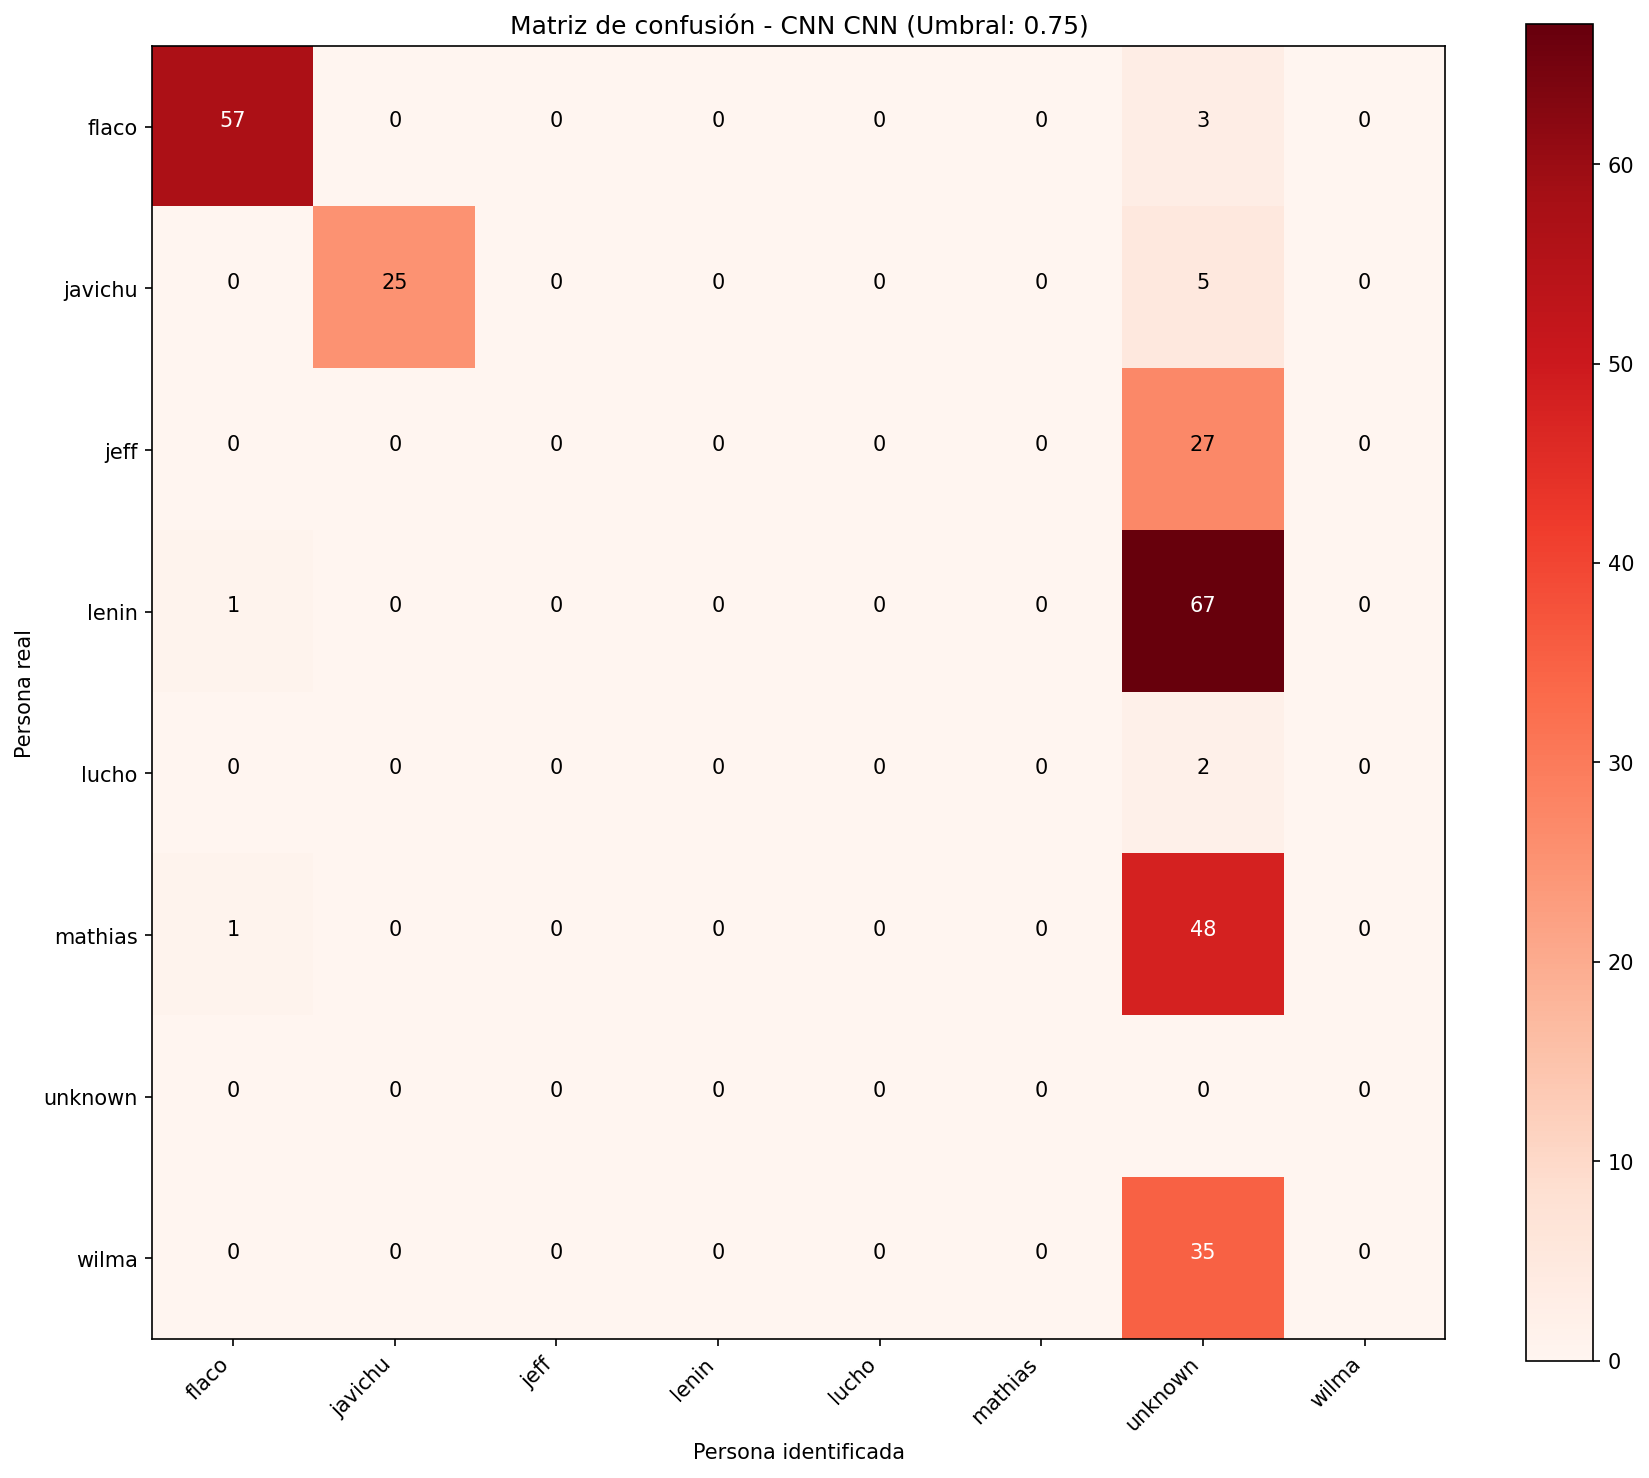
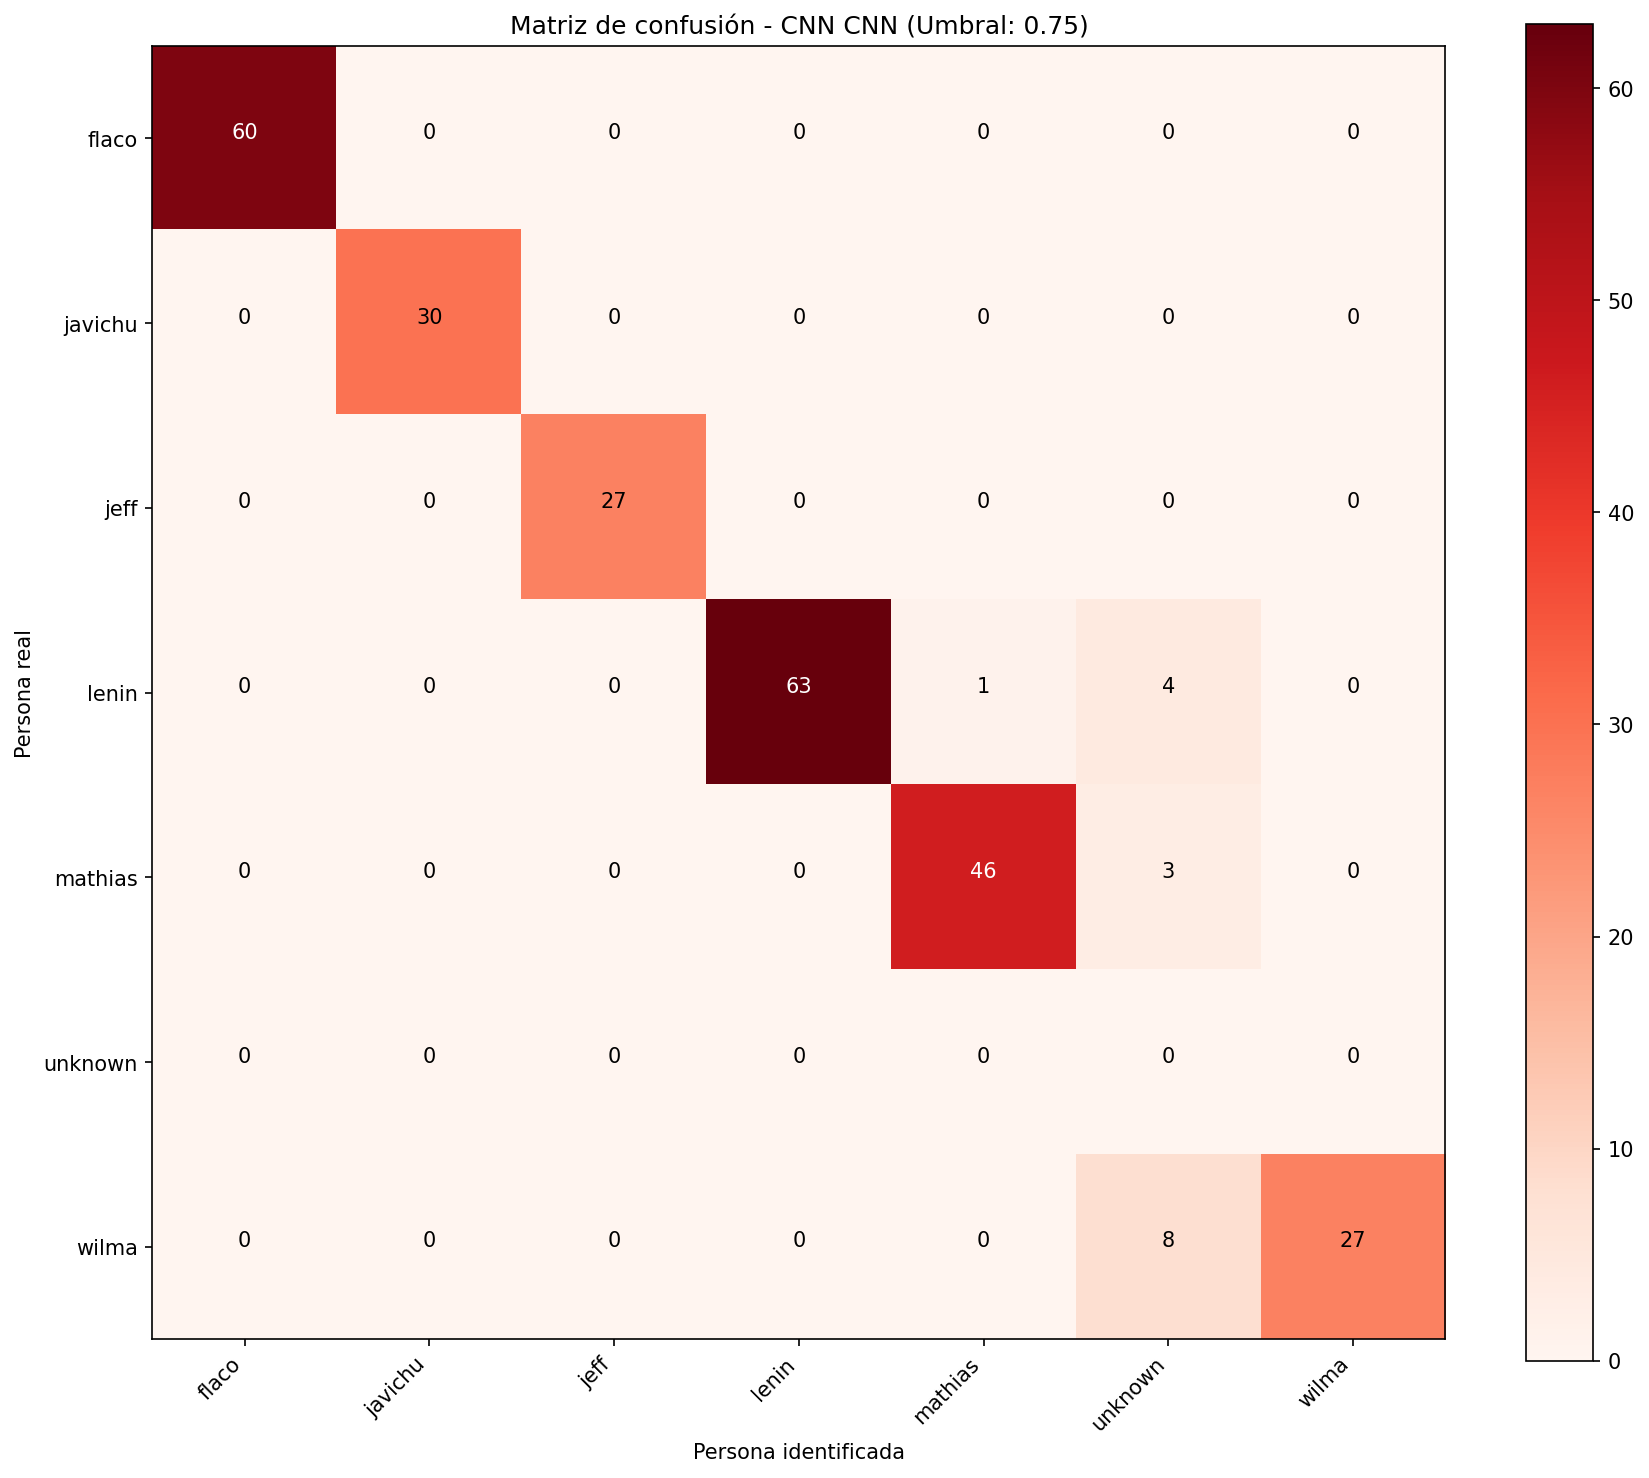
chore: update cnn

diff --git a/models/facial/classifiers/cnn_classifier.py b/models/facial/classifiers/cnn_classifier.py
@@ -96,38 +96,38 @@ def build_cnn_model(input_shape, num_classes):
     x = layers.Conv2D(32, (3, 3), activation='relu', padding='same')(x)
     x = layers.BatchNormalization()(x)
     x = layers.MaxPooling2D((2, 2))(x)
-    x = layers.Dropout(0.25)(x)
+    x = layers.Dropout(0.1)(x)
     
     x = layers.Conv2D(64, (3, 3), activation='relu', padding='same')(x)
     x = layers.BatchNormalization()(x)
     x = layers.Conv2D(64, (3, 3), activation='relu', padding='same')(x)
     x = layers.BatchNormalization()(x)
     x = layers.MaxPooling2D((2, 2))(x)
-    x = layers.Dropout(0.25)(x)
+    x = layers.Dropout(0.1)(x)
     
     x = layers.Conv2D(128, (3, 3), activation='relu', padding='same')(x)
     x = layers.BatchNormalization()(x)
     x = layers.Conv2D(128, (3, 3), activation='relu', padding='same')(x)
     x = layers.BatchNormalization()(x)
     x = layers.MaxPooling2D((2, 2))(x)
-    x = layers.Dropout(0.25)(x)
+    x = layers.Dropout(0.15)(x)
     
     x = layers.Conv2D(256, (3, 3), activation='relu', padding='same')(x)
     x = layers.BatchNormalization()(x)
     x = layers.Conv2D(256, (3, 3), activation='relu', padding='same')(x)
     x = layers.BatchNormalization()(x)
     x = layers.MaxPooling2D((2, 2))(x)
-    x = layers.Dropout(0.25)(x)
+    x = layers.Dropout(0.15)(x)
     
     x = layers.GlobalAveragePooling2D()(x)
     
     x = layers.Dense(512, activation='relu')(x)
     x = layers.BatchNormalization()(x)
-    x = layers.Dropout(0.5)(x)
+    x = layers.Dropout(0.25)(x)
     
     x = layers.Dense(256, activation='relu')(x)
     x = layers.BatchNormalization()(x)
-    x = layers.Dropout(0.5)(x)
+    x = layers.Dropout(0.25)(x)
     
     outputs = layers.Dense(num_classes, activation='softmax', dtype='float32')(x)
     
@@ -136,11 +136,11 @@ def build_cnn_model(input_shape, num_classes):
 
 def create_data_augmentation():
     return keras.Sequential([
-        layers.RandomRotation(0.1),
-        layers.RandomZoom(0.1),
         layers.RandomFlip("horizontal"),
-        layers.RandomBrightness(0.1),
-        layers.RandomContrast(0.1),
+        layers.RandomRotation(0.02),
+        layers.RandomZoom(0.02),
+        layers.RandomBrightness(0.02),
+        layers.RandomContrast(0.02),
     ])
 
 def train_cnn_classifier(data_dir=None, epochs=EPOCHS, batch_size=BATCH_SIZE, learning_rate=LEARNING_RATE):
@@ -172,7 +172,14 @@ def train_cnn_classifier(data_dir=None, epochs=EPOCHS, batch_size=BATCH_SIZE, le
     
     data_augmentation = create_data_augmentation()
     
-    optimizer = keras.optimizers.Adam(learning_rate=learning_rate)
+    initial_learning_rate = learning_rate
+    
+    optimizer = keras.optimizers.Adam(
+        learning_rate=initial_learning_rate,
+        beta_1=0.9,
+        beta_2=0.999,
+        epsilon=1e-7
+    )
     model.compile(
         optimizer=optimizer,
         loss='sparse_categorical_crossentropy',
@@ -181,9 +188,10 @@ def train_cnn_classifier(data_dir=None, epochs=EPOCHS, batch_size=BATCH_SIZE, le
     
     early_stopping = callbacks.EarlyStopping(
         monitor='val_loss',
-        patience=20,
+        patience=40,
         restore_best_weights=True,
-        verbose=1
+        verbose=1,
+        min_delta=1e-6
     )
     
     reduce_lr = callbacks.ReduceLROnPlateau(
@@ -191,7 +199,8 @@ def train_cnn_classifier(data_dir=None, epochs=EPOCHS, batch_size=BATCH_SIZE, le
         factor=0.5,
         patience=10,
         min_lr=1e-7,
-        verbose=1
+        verbose=1,
+        min_delta=1e-6
     )
     
     model_checkpoint = callbacks.ModelCheckpoint(
@@ -229,8 +238,10 @@ def train_cnn_classifier(data_dir=None, epochs=EPOCHS, batch_size=BATCH_SIZE, le
     train_gen = augmented_generator(train_images, train_labels, batch_size, augment=True)
     val_gen = augmented_generator(val_images, val_labels, batch_size, augment=False)
     
-    steps_per_epoch = len(train_images) // batch_size
-    validation_steps = len(val_images) // batch_size
+    steps_per_epoch = max(1, len(train_images) // batch_size)
+    validation_steps = max(1, len(val_images) // batch_size)
+    
+    print(f"Steps per epoch: {steps_per_epoch}, Validation steps: {validation_steps}")
     
     history = model.fit(
         train_gen,
@@ -241,6 +252,15 @@ def train_cnn_classifier(data_dir=None, epochs=EPOCHS, batch_size=BATCH_SIZE, le
         callbacks=[early_stopping, reduce_lr, model_checkpoint],
         verbose=1
     )
+    
+    final_train_loss = history.history['loss'][-1]
+    final_val_loss = history.history['val_loss'][-1]
+    final_train_acc = history.history['accuracy'][-1]
+    final_val_acc = history.history['val_accuracy'][-1]
+    
+    print(f"\nTraining completed:")
+    print(f"  Final training loss: {final_train_loss:.4f}, accuracy: {final_train_acc:.4f}")
+    print(f"  Final validation loss: {final_val_loss:.4f}, accuracy: {final_val_acc:.4f}")
     
     model.save(str(CNN_MODEL_PATH))
     
@@ -262,6 +282,9 @@ def load_cnn_classifier():
                 _label_encoder = pickle.load(f)
             
             _cnn_model = keras.models.load_model(str(CNN_MODEL_PATH))
+            
+            num_classes = len(_label_encoder.classes_)
+            print(f"Loaded CNN model with {num_classes} classes: {list(_label_encoder.classes_)}")
         else:
             raise ValueError("CNN classifier not trained. Please train the model first.")
     
@@ -301,6 +324,9 @@ def identify_face_from_image(image_path):
 def identify_face_from_array(face_array):
     model, label_encoder = load_cnn_classifier()
     
+    original_shape = face_array.shape
+    original_dtype = face_array.dtype
+    
     if len(face_array.shape) == 3:
         if face_array.shape != (IMAGE_SIZE, IMAGE_SIZE, 3):
             image = Image.fromarray(face_array.astype(np.uint8) if face_array.dtype != np.uint8 else face_array)
@@ -313,16 +339,23 @@ def identify_face_from_array(face_array):
     if face_array.shape[1:] != (IMAGE_SIZE, IMAGE_SIZE, 3):
         raise ValueError(f"Expected image shape ({IMAGE_SIZE}, {IMAGE_SIZE}, 3), got {face_array.shape[1:]}")
     
-    if face_array.dtype != np.float32:
-        if face_array.dtype == np.uint8:
-            face_array = face_array.astype(np.float32) / 255.0
-        else:
-            face_array = face_array.astype(np.float32)
-            if face_array.max() > 1.0:
-                face_array = face_array / 255.0
+    if face_array.dtype == np.uint8:
+        face_array = face_array.astype(np.float32) / 255.0
+    elif face_array.dtype != np.float32:
+        face_array = face_array.astype(np.float32)
+        if face_array.max() > 1.0:
+            face_array = face_array / 255.0
+    elif face_array.max() > 1.0:
+        face_array = face_array / 255.0
+    
+    if face_array.min() < 0.0 or face_array.max() > 1.0:
+        face_array = np.clip(face_array, 0.0, 1.0)
     
     predictions = model.predict(face_array, verbose=0)
     probabilities = predictions[0]
+    
+    if not np.allclose(probabilities.sum(), 1.0, atol=1e-5):
+        probabilities = probabilities / probabilities.sum()
     
     predicted_index = np.argmax(probabilities)
     confidence_score = float(probabilities[predicted_index])
